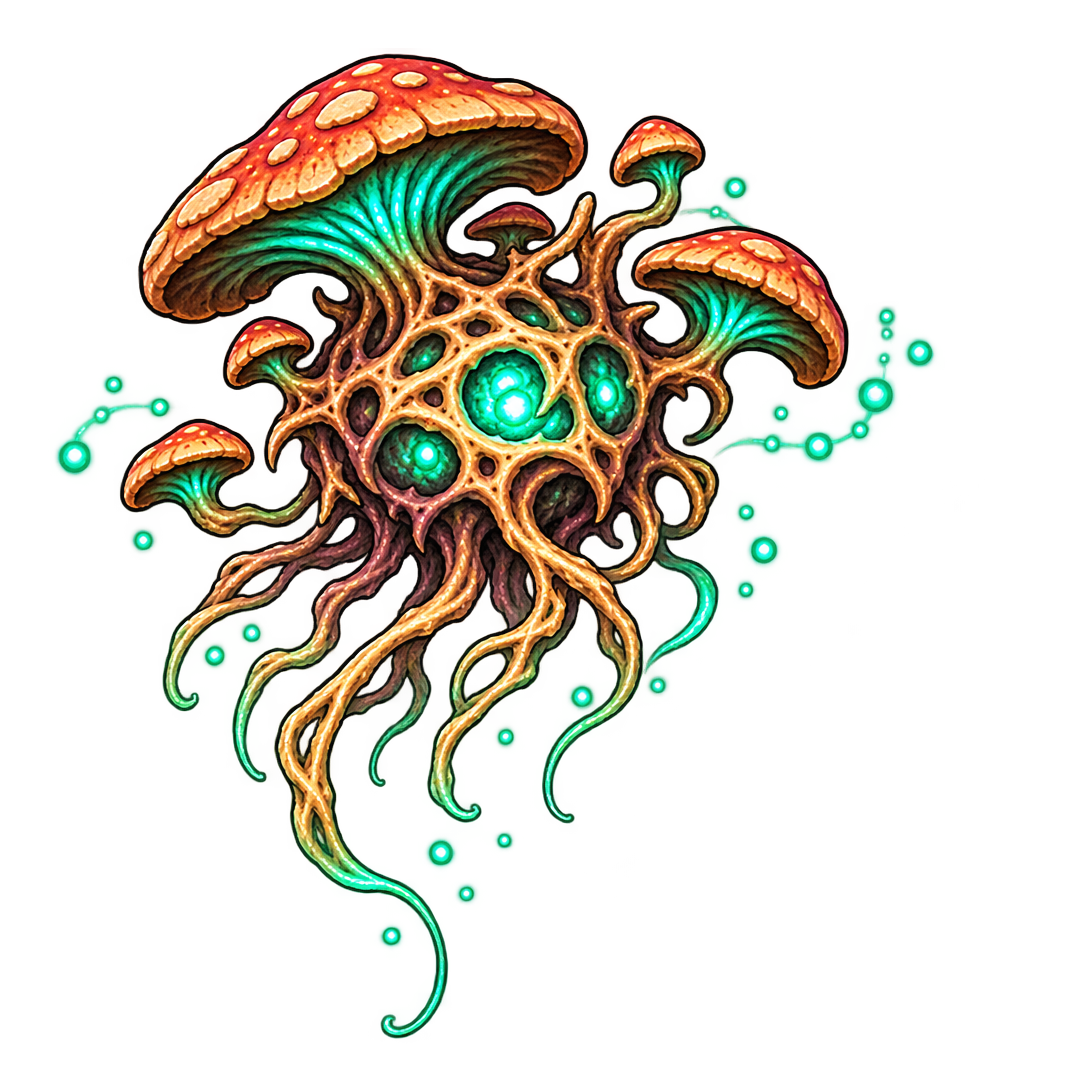
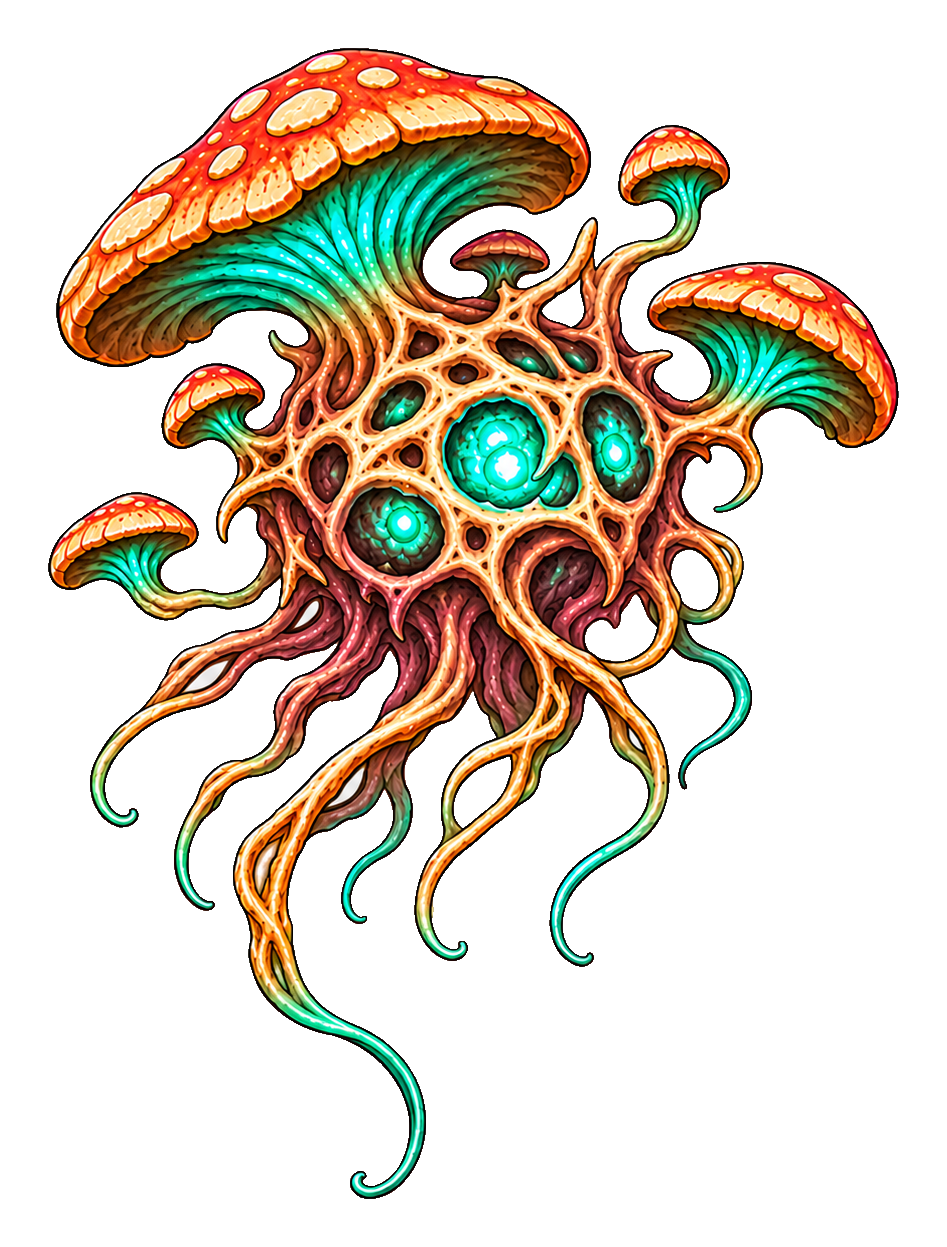
Fogo-Fátuo de Esporos: versão nova (antiga em extra/monsters_v1)

diff --git a/docs/ARTE.md b/docs/ARTE.md
@@ -67,7 +67,7 @@ são os definitivos: arte nova entra sozinha, sem mexer no código.
 | **MU2** | Mutações | 4 | **Pronta**, instalada. O estilo está certo, mas os 4 frascos vieram com líquido vermelho; ajuste opcional abaixo |
 | **E3 Pináculos** | `ev_cliff_nest`, `ev_storm_shrine`, `ev_abandoned_gear` | 3 | **Pronta**, instalada. `ev_abandoned_gear` veio como uma mina abandonada, então o evento passa a se chamar **Mina Abandonada** |
 | **E3 Bosque** | `ev_fairy_ring`, `ev_spore_cocoon`, `ev_overgrown_cart` | 3 | **Pronta**, instalada |
-| **M3 Sporemaw** | `sporeling`, `sporemaw`, `mycostalker`, `mycelium_mother` | 4 | **Pronta**, instalada. Sporeling, Mycostalker, Matriz e Carregador refeitos com contorno grosso (antigos em `assets/art/extra/monsters_v1/`); a versão refeita do Fogo-Fátuo ficou em `assets/art/extra/monsters_v2/`, sem uso |
+| **M3 Sporemaw** | `sporeling`, `sporemaw`, `mycostalker`, `mycelium_mother` | 4 | **Pronta**, instalada. Sporeling, Mycostalker, Matriz, Carregador e Fogo-Fátuo refeitos (antigos em `assets/art/extra/monsters_v1/`) |
 | **F3 Bosque** | `fungal_grove`, `battle_fungal_hollow` | 2 | **Pronta**, instalada. `battle_fungal_hollow` refeito em tons neutros para os monstros se destacarem (o antigo ficou em `assets/art/extra/backgrounds/battle_fungal_hollow_v1.png`) |
 | **P6 / P7** | Partes Sporemaw e Ashwing | 12 + 12 | **Pronta**, instalada |
 | **C5 / C6** | Cartas das partes | 12 + 12 | **Pronta**, instalada: serve no tamanho da carta (ver abaixo) |
